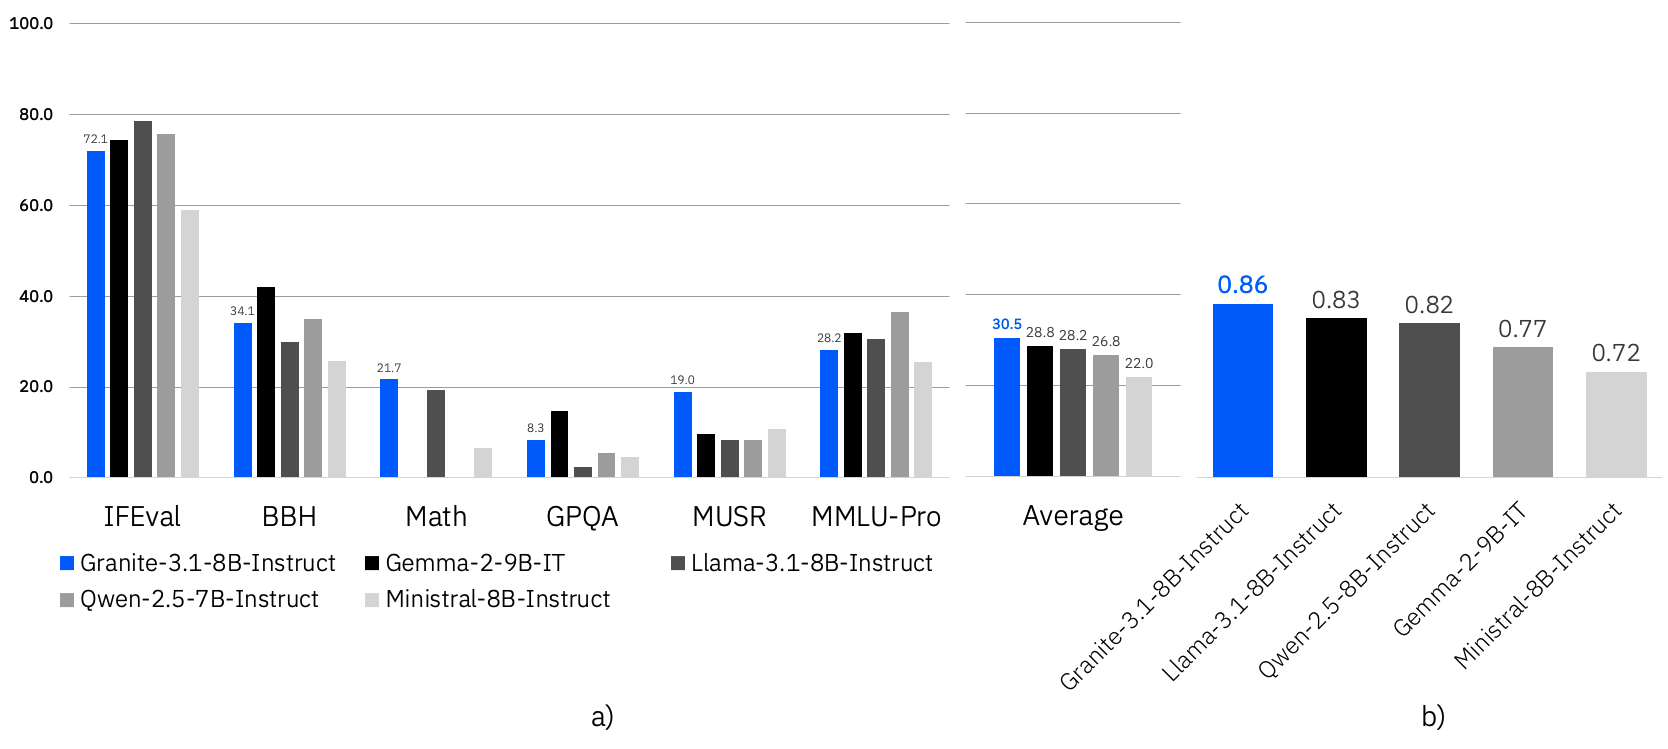
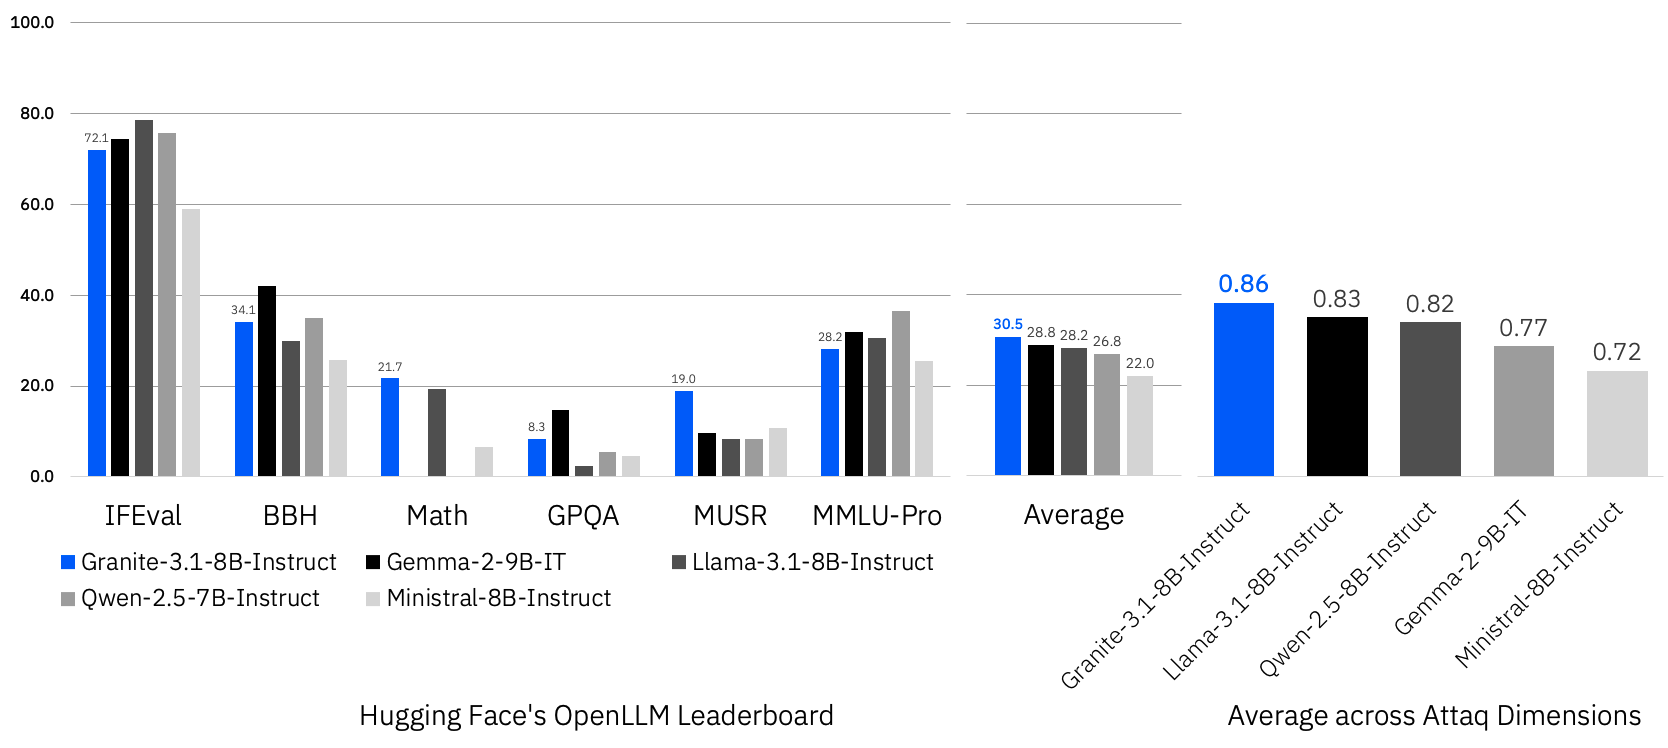
draft v2

diff --git a/README.md b/README.md
@@ -19,13 +19,13 @@ Granite 3.1 models come in 4 varying sizes:
 
 Accordingly, these options provide a range of models with different compute requirements to choose from, with appropriate trade-offs with their performance on downstream tasks. At each scale, we release base model — checkpoints of models after pretraining, as well as instruct checkpoints — models finetuned for dialogue, instruction-following, helpfulness, and safety.
 
-Our prelimnary evaluation results show that Granite-3.1-8B-Instruct outperforms models of similar parameter sizes in [Hugging Face's OpenLLM Leaderboard](https://huggingface.co/spaces/open-llm-leaderboard/open_llm_leaderboard#/), as demonstrated in Figure 1. 
+Our prelimnary evaluation results show that Granite-3.1-8B-Instruct outperforms models of similar parameter sizes in [Hugging Face's OpenLLM Leaderboard](https://huggingface.co/spaces/open-llm-leaderboard/open_llm_leaderboard#/) and across Attaq Dimensions (as demonstrated in the following Figure). 
 
 <figure>
   <img src="https://github.com/ibm-granite/granite-3.1-language-models/blob/main/figures/granite-3_1-8b-instruct.png"
   alt="Base models performance.">
-  <figcaption>Fig 1. a) Granite-3.1-8B-Instruct results for Hugging Face's OpenLLM Leaderboard, b) Average results for safety evaluation on across Attaq Dimensions.
-   .</figcaption>
+  <!-- <figcaption>
+   .</figcaption> -->
 </figure>
 
 Comprehensive evaluation results for all model variants, as well as other relevant information will be available in Granite 3.1 Language Models technical report.
